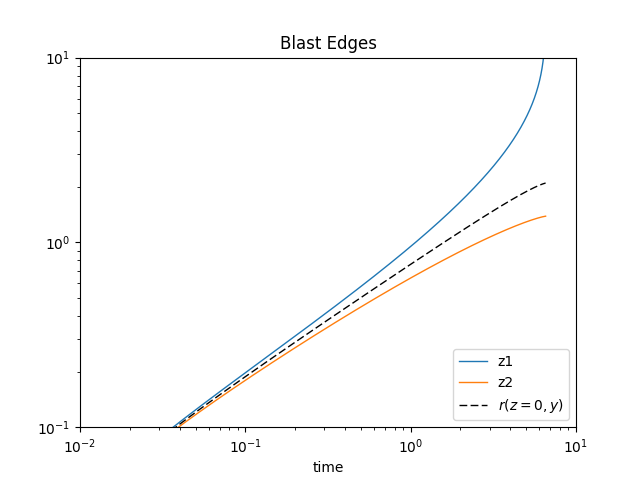
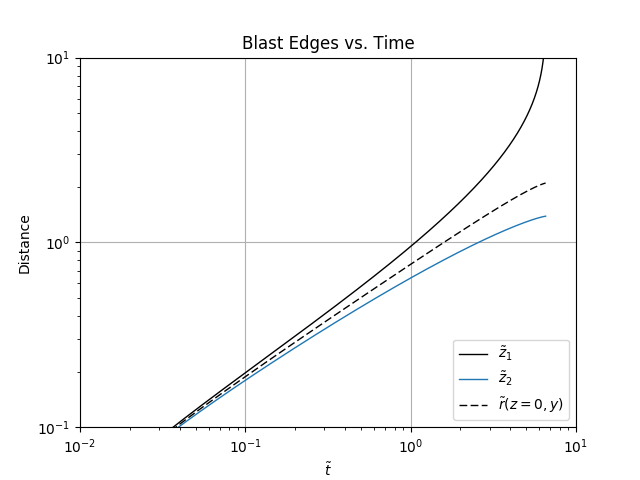
touch up figures

diff --git a/superbubbles.py b/superbubbles.py
@@ -44,13 +44,13 @@ def shockfronts():
 		'filename': 'shockfront.png',
 		'ylim': (-2, 10), 'xlim': (-6, 6),
 		'figsize': (6/1.3, 6.5/1.3),
-		'show': False
+		'show': False,
+		# 'legend': {'loc':4}
 	}
 
 	for i, yi in enumerate(tqdm(y)):
-		figure1[i] = {'x': np.concatenate((r(z, y[i]), -r(z, y[i]))), 'y': np.concatenate((z,z))}
+		figure1[i] = {'x': np.concatenate((r(z, y[i]), -r(z, y[i]))), 'y': np.concatenate((z,z)), 'label': '$y=$'+str(yi)}
 	plawt.plot(figure1)
-
 ### Math Helpers ###
 
 # Derivatives of stuff
@@ -102,62 +102,72 @@ dz1sdt = dzsdt(ys, Es, Omegas)[0]
 
 # Plot
 plawt.plot({
-	0: {'x': time[:len(ys)], 'y': ys},
+	0: {'x': time[:len(ys)], 'y': ys, 'line':'k-'},
 	'show':False,
 	'filename': os.path.join(figdir,'y.png'),
-	'title': "Y",
-	'xlabel': 'time',
+	'title': "(a) $y$ vs Time",
+	'xlabel': '$\\tilde{t}$',
+	'ylabel': '$\\tilde{y}$',
 	'set_yscale': 'log', 'set_xscale': 'log',
-	'xlim': (0.01, 10), 'ylim': (0.1, 10.0)
+	'xlim': (0.01, 10), 'ylim': (0.1, 10.0),
+	'grid':True
 })
 plawt.plot({
-	0: {'x': time[:len(ys)], 'y': Es},
+	0: {'x': time[:len(ys)], 'y': Es, 'line':'k-'},
 	'show':False,
 	'filename': os.path.join(figdir,'energy.png'),
-	'title': "Energy",
-	'xlabel': 'time',
+	'title': "Thermal Energy vs Time",
+	'xlabel': '$\\tilde{t}$',
+	'ylabel': '$\\tilde{E}_{th}$',
 	'set_yscale': 'log', 'set_xscale': 'log',
-	'xlim': (0.01, 10), 'ylim': (0.01, 10.0)
+	'xlim': (0.01, 10), 'ylim': (0.01, 10.0),
+	'grid':True
 })
 plawt.plot({
-	0: {'x': time[:len(ys)], 'y': z12s[0], 'label': 'z1'},
-	1: {'x': time[:len(ys)], 'y': -z12s[1], 'label': 'z2'},
-	2: {'x': time[:len(ys)], 'y': r(0, ys), 'label': '$r(z=0,y)$', 'line': 'k--'},
+	0: {'x': time[:len(ys)], 'y': z12s[0], 'label': '$\\tilde{z}_1$', 'line':'k-'},
+	1: {'x': time[:len(ys)], 'y': -z12s[1], 'label': '$\\tilde{z}_2$'},
+	2: {'x': time[:len(ys)], 'y': r(0, ys), 'label': '$\\tilde{r}(z=0,y)$', 'line': 'k--'},
 	'filename': os.path.join(figdir,'blastedges.png'),
-	'title': 'Blast Edges',
-	'xlabel': 'time',
+	'title': 'Blast Edges vs. Time',
+	'xlabel': '$\\tilde{t}$',
+	'ylabel': 'Distance',
 	'legend': {'loc': 4},
 	'set_yscale': 'log', 'set_xscale': 'log',
-	'xlim': (0.01, 10), 'ylim': (0.1, 10.0)
+	'xlim': (0.01, 10), 'ylim': (0.1, 10.0),
+	'grid':True
 })
 plawt.plot({
-	0: {'x': time[:len(ys)], 'y': Ps},
+	0: {'x': time[:len(ys)], 'y': Ps, 'line':'k-'},
 	'show':False,
 	'filename': os.path.join(figdir,'pressure.png'),
-	'title': "Pressure",
-	'xlabel': 'time',
+	'title': "Pressure vs. Time",
+	'xlabel': '$\\tilde{t}$',
+	'ylabel': '$\\tilde{P}$',
 	'set_yscale': 'log', 'set_xscale': 'log',
-	'xlim': (0.01, 10), 'ylim': (0.01, 10.0)
+	'xlim': (0.01, 10), 'ylim': (0.01, 10.0),
+	'grid':True
 })
 plawt.plot({
-	0: {'x': time[:len(ys)], 'y': dz1sdt},
+	0: {'x': time[:len(ys)], 'y': dz1sdt, 'line':'k-'},
 	'show':False,
 	'filename': os.path.join(figdir,'blastedgespeed.png'),
 	'title': "Blast Edge Speed",
-	'xlabel': 'time',
-	'ylabel': '$dz_1/dt$',
+	'xlabel': '\\tilde{t}',
+	'ylabel': '$d\\tilde{z}_1/dt$',
 	'set_yscale': 'log', 'set_xscale': 'log',
-	'xlim': (0.01, 10), 'ylim': (0.01, 10.0)
+	'xlim': (0.01, 10), 'ylim': (0.01, 10.0),
+	'grid':True
 })
 plawt.plot({
-	0: {'x': z12s[0], 'y': dz1sdt},
+	0: {'x': z12s[0], 'y': dz1sdt, 'line':'k-'},
 	'show':False,
 	'filename': os.path.join(figdir,'blastedgeSpeedvsPos.png'),
 	'title': "Blast Edge Speed vs. Position",
-	'xlabel': '$z_1$',
-	'ylabel': '$dz_1/dt$',
+	'xlabel': '$\\tilde{z}_1$',
+	'ylabel': '$d\\tilde{z}_1/dt$',
 	'set_yscale': 'log', 'set_xscale': 'log',
-	'xlim': (0.1, 10), 'ylim': (0.1, 10.0)
+	'xlim': (0.1, 10), 'ylim': (0.1, 10.0),
+	'grid':True
 })
 
 # alternative: use odeint to solve the entire system. works
